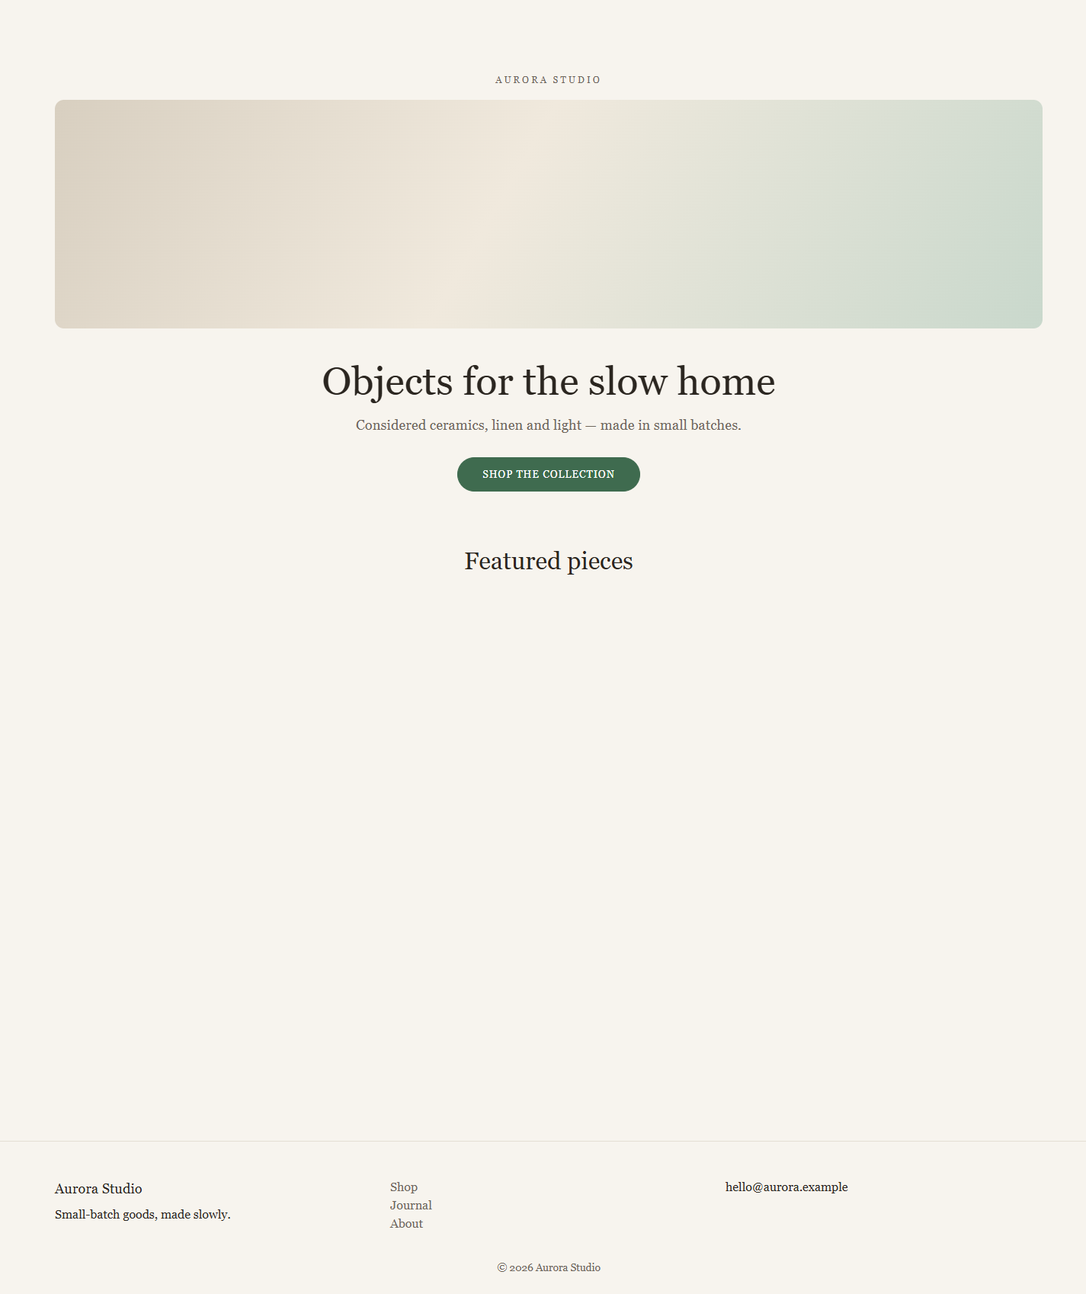
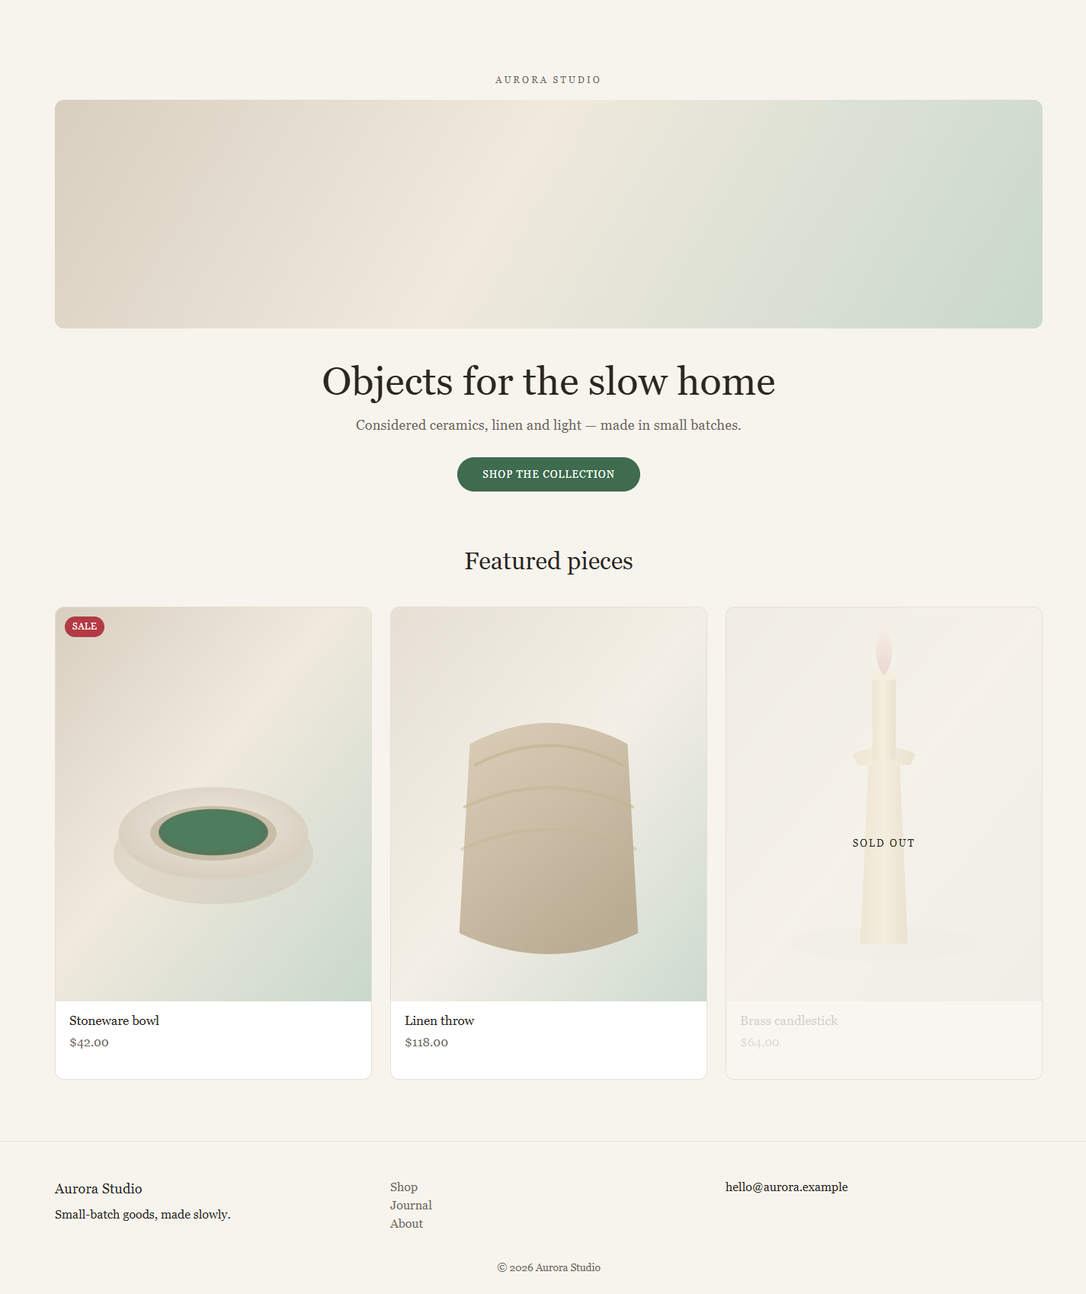
fix: Task 03 correction pass — scope audit, import-map cleanup, section metadata, docs
- NEW designs/build/audit-scope.mjs: selector-scoping audit (every selector must
  reference .ph-client--demo; @media/@supports recursed, @keyframes skipped) +
  dead .ph-client--demo :root strip; wired into build.mjs build AND --check
  (fails on unscoped selectors). Asset rebuilt 9413 -> 9213 bytes (9.0 KB).
- Remove unused client-{slug} entry from theme-import-map.liquid (module imports
  nothing; contract 2.4 now requires import-map only when shared modules used).
- Add data-ph-section="demo" + data-ph-component to the 3 client sections.
- Frozen source: picsum.photos -> local SVGs (designs/demo/source/assets/);
  QA screenshots re-captured.
- Contract 1.2 two-layer rule (design source may use globals; production must
  not), 1.7 audit/strip/limits, 1.8 regression definition (not byte-identical),
  2.4 import-map policy. mapping.md: token substitution intent + future data.
- client-demo.js: AbortSignal lifecycle comments; IO-only proof note.
- Record: docs/superpowers/corrections/2026-08-16-phantom-task03-correction-pass.md
- Verified: theme-check 274 files 0 offenses; build check OK 9.0 KB; scope audit
  0 issues; contract audit clean; JSONs valid.

diff --git a/phantom-theme-v2.2.0/designs/demo/source/index.html b/phantom-theme-v2.2.0/designs/demo/source/index.html
@@ -68,7 +68,7 @@
         <div class="col-12 col-sm-6 col-md-4">
           <article class="ph-client__card ph-client__reveal">
             <span class="ph-client__badge">Sale</span>
-            <div class="ph-client__card-media"><img src="https://picsum.photos/seed/aurora1/600/750" alt="Stoneware bowl"></div>
+            <div class="ph-client__card-media"><img src="assets/aurora-bowl.svg" alt="Stoneware bowl"></div>
             <div class="ph-client__card-body">
               <h3 class="ph-client__card-title"><a href="#">Stoneware bowl</a></h3>
               <p class="ph-client__card-price">$42.00</p>
@@ -77,7 +77,7 @@
         </div>
         <div class="col-12 col-sm-6 col-md-4">
           <article class="ph-client__card ph-client__reveal">
-            <div class="ph-client__card-media"><img src="https://picsum.photos/seed/aurora2/600/750" alt="Linen throw"></div>
+            <div class="ph-client__card-media"><img src="assets/aurora-linen.svg" alt="Linen throw"></div>
             <div class="ph-client__card-body">
               <h3 class="ph-client__card-title"><a href="#">Linen throw</a></h3>
               <p class="ph-client__card-price">$118.00</p>
@@ -87,7 +87,7 @@
         <div class="col-12 col-sm-6 col-md-4">
           <article class="ph-client__card ph-client__reveal">
             <span class="ph-client__card-soldout">Sold out</span>
-            <div class="ph-client__card-media"><img src="https://picsum.photos/seed/aurora3/600/750" alt="Brass candlestick"></div>
+            <div class="ph-client__card-media"><img src="assets/aurora-candlestick.svg" alt="Brass candlestick"></div>
             <div class="ph-client__card-body">
               <h3 class="ph-client__card-title"><a href="#">Brass candlestick</a></h3>
               <p class="ph-client__card-price">$64.00</p>

diff --git a/phantom-theme-v2.2.0/assets/client-demo.js b/phantom-theme-v2.2.0/assets/client-demo.js
@@ -10,6 +10,11 @@
  *
  * Zero visual change: this file is only loaded when ph_active_design = demo.
  * No vendor libraries (demo); the vendor-{slug} slot stays documented.
+ *
+ * Lifecycle scope note: Task 03 proves the init/destroy/refresh contract with
+ * a native IntersectionObserver implementation only. Vendor-library lifecycle
+ * integration (GSAP/Swiper/Lenis/Three) is exercised in Task 04+; the
+ * destroy() API above is shaped so those libraries can be torn down cleanly.
  */
 (function () {
   'use strict'
@@ -137,7 +142,13 @@
       this.root.addEventListener(EVENTS.cartUpdated, this._bound.onCartUpdated, { signal })
     }
 
-    _unbindLifecycle() {}
+    _unbindLifecycle() {
+      // No explicit work: every listener in _bindLifecycle is bound with
+      // { signal: this.abort.signal }. destroy() calls this.abort.abort(),
+      // which removes all of them atomically — so this method stays a
+      // documented no-op. Library-specific teardown (GSAP contexts, Swiper
+      // instances, Lenis) lands here in Task 04+.
+    }
 
     _onSectionLoad(e) {
       const el = e.target && e.target.closest ? e.target.closest(SECTION_SELECTOR) || e.target : e.target

diff --git a/phantom-theme-v2.2.0/designs/demo/production/client-demo.css b/phantom-theme-v2.2.0/designs/demo/production/client-demo.css
@@ -39,14 +39,6 @@
     max-width: 1320px;
   }
 }
-.ph-client--demo :root {
-  --bs-breakpoint-xs: 0;
-  --bs-breakpoint-sm: 576px;
-  --bs-breakpoint-md: 768px;
-  --bs-breakpoint-lg: 992px;
-  --bs-breakpoint-xl: 1200px;
-  --bs-breakpoint-xxl: 1400px;
-}
 .ph-client--demo .row {
   --bs-gutter-x: 1.5rem;
   --bs-gutter-y: 0;

diff --git a/docs/superpowers/corrections/2026-08-16-phantom-task03-correction-pass.md b/docs/superpowers/corrections/2026-08-16-phantom-task03-correction-pass.md
@@ -1,0 +1,61 @@
+# PHANTOM Task 03 — Correction Pass (post-execution audit)
+
+- **Date:** 2026-08-16
+- **Applies to:** executed Task 03 (`docs/superpowers/plans/2026-08-16-phantom-task03-design-activation-plan.md`, commits `a5da4ab..40c3952`, pushed to `shopify-demo`)
+- **Trigger:** external technical review of the Task 03 plan (12 findings). This record audits each finding against the **shipped code** (not the plan text), applies fixes where the finding is real, and re-verifies.
+
+## Task roles (explicit)
+
+- **TASK 03 (this work):** *Prove external-design activation safely.* A controlled proof-of-concept. The `ph_active_design` toggle (`none`|`demo`) is a **temporary activation mechanism** for the proof — it is NOT the final architecture.
+- **TASK 04 (next):** *Convert the proof into a modular AETHER section system.* Sections with their own `{% schema %}`, presets, per-section assets/lifecycle, mixed `AETHER section / PHANTOM section / AETHER section` composition in one JSON template (spec already exists: `docs/superpowers/specs/2026-08-16-aether-section-library-design.md`).
+- **TASK 05+:** *Integrate real premium external client designs into AETHER.*
+
+Task 03 must not be made to do Task 04's job — global-design activation stays a proof mechanism.
+
+## Finding-by-finding disposition
+
+| # | Finding | Severity | Real in shipped code? | Disposition |
+|---|---|---|---|---|
+| 1 | Global activation vs modular AETHER | arch | As-designed (proof only) | Documented above + in plan header note. No code change — Task 03 stays a proof. |
+| 2 | Frozen source uses `:root`/`body` vs "no globals" contract | HIGH | Contradiction existed in contract text | Contract §1.2 rewritten: two layers (design source may use globals; production must not). |
+| 3 | `.ph-client__container` vs `.container` mismatch | HIGH | **No** — shipped sections already use `.container`; compiled scoped `.container` verified (6 rules, all breakpoints) | Verified; recorded. No change needed. |
+| 4 | Bootstrap Sass nesting strategy risky | HIGH | Strategy proven for demo subset (output fully scoped) | Audit added (`audit-scope.mjs`) + dead-rule strip + strategy limits documented in contract §1.7. |
+| 5 | "Scoped/purged" not actually proven | HIGH | **Yes** — QA was 4 regexes; shipped CSS contained dead `.ph-client--demo :root` + Bootstrap `:not(.btn-check) + …` chained selector | `designs/build/audit-scope.mjs` added; wired into `build.mjs` (both build and `--check` fail on any unscoped selector); dead `:root` stripped; asset rebuilt 9413 → 9213 bytes. |
+| 6 | Token bridge vs "frozen source" tension | MEDIUM | Intent undocumented | `designs/demo/mapping.md` gains "Token substitution (intentional design-system integration)" section — QA compares structure/layout, not exact hex. |
+| 7 | Import-map duplication | MEDIUM | **Yes** — `theme-import-map.liquid` shipped a `client-demo` entry; module imports nothing | Entry removed. Contract §2.4 now states: import-map registration only when the module actually imports shared modules. |
+| 8 | Lifecycle only partially real | LOW | `_unbindLifecycle() {}` confusing | Commented (AbortSignal semantics) + header note: IO-only proof; vendor-library lifecycle lands in Task 04+. |
+| 9 | Missing `data-ph-section`/`data-ph-component` | LOW | **Yes** | Added to all 3 client sections (`demo`/`hero|collection|footer`) for future AETHER JS registry, analytics, editor lifecycle. |
+| 10 | External picsum.photos dependency | LOW | **Yes** (frozen source only) | Replaced with local SVG placeholders (`designs/demo/source/assets/aurora-{bowl,linen,candlestick}.svg`); source screenshots re-captured. |
+| 11 | Dynamic fields incomplete | LOW | Adapter already permits future fields | Documented in mapping.md (variant/quick-add explicit out-of-scope for Task 03). |
+| 12 | "Byte-identical" too strong | MEDIUM | Wording only | Contract §1.8 defines regression as no visual/functional/asset/perf change; byte differences acceptable. |
+
+## Files changed
+
+| File | Change |
+|---|---|
+| `designs/build/audit-scope.mjs` | NEW — selector-scoping audit + dead `:root` strip |
+| `designs/build/build.mjs` | Wire audit + strip into build/check; fail on unscoped selectors |
+| `designs/demo/production/client-demo.css` | Rebuilt (9.0 KB, dead `:root` removed) |
+| `assets/client-demo.css.liquid` | Rebuilt asset copied |
+| `snippets/theme-import-map.liquid` | Removed conditional `client-*` entry |
+| `sections/client-demo-{hero,collection,footer}.liquid` | Added `data-ph-section="demo"` + `data-ph-component` |
+| `assets/client-demo.js` | Lifecycle comments (AbortSignal, vendor-lib scope note) |
+| `designs/demo/source/index.html` + `assets/aurora-*.svg` | Local placeholders replace picsum.photos |
+| `designs/contracts/css-namespace-contract.md` | §1.2 two-layer rule, §1.7 audit/strip/limits, §1.8 regression definition, §2.4 import-map policy |
+| `designs/demo/mapping.md` | Token-substitution intent + future data surface |
+| `docs/integration/demo/fidelity-report.md` | QA table updated (scope audit, new size) |
+| `docs/integration/demo/screenshots/*` | Re-captured against local placeholder source |
+| This record | Problem-by-problem disposition |
+
+## QA re-run (all green)
+
+1. `node build.mjs --slug demo` → build OK, scope audit 0 issues, dead `:root` stripped (9213 bytes)
+2. `node build.mjs --slug demo --check` → `OK demo: 9.0 KB`
+3. `shopify theme check --path phantom-theme-v2.2.0` → 0 offenses
+4. CSS contract audit (no `:root` / `^body` / `!important` / z-index ≥ 5 digits) → clean
+5. JSON validates (settings_schema, settings_data, locales, page.demo)
+6. Default-path regression: only conditional/additive diffs in layout + import map; `index.json` untouched
+
+## Bottom line
+
+The plan's foundation was sound; the shipped code had already absorbed the container fix (P3). The real gaps were **automated scope proof (P5)**, **contract clarity (P2/P12)**, **import-map duplication (P7)**, and **section metadata (P9)** — all closed here without changing the architecture or the default render path.

diff --git a/phantom-theme-v2.2.0/designs/contracts/css-namespace-contract.md b/phantom-theme-v2.2.0/designs/contracts/css-namespace-contract.md
@@ -21,16 +21,16 @@ Every client design renders inside exactly one scope root:
 
 ### 1.2 Authoring rules (hard rules, linted)
 
-| Rule | Applies to |
-|---|---|
-| All client CSS selectors prefixed with `.ph-client` (or nested under it in source) | CSS |
-| Never write `:root`, `body`, `html`, or bare element selectors | CSS |
-| Never set `!important` outside component-specific state overrides | CSS |
-| Never exceed z-index 10000 (PHANTOM ceiling is 10001) | CSS |
-| Raw Bootstrap classes never appear unscoped in the theme | CSS/build |
-| Never re-bundle AOS, Flickity, PhotoSwipe (already in `phantom-vendor.js`) | build |
-| All JS hooks use `data-ph-*` attributes inside the scope | JS |
-| Client JS never attaches global listeners without cleanup | JS |
+**Two layers, two rule sets.** The frozen design source and the production client CSS are different artifacts with different rules:
+
+| Layer | File | May use | Must not use |
+|---|---|---|---|
+| **Design source** (design-time) | `designs/{slug}/source/*.html` | `:root`, `body`, bare element selectors, any CSS the designer wants | nothing — it is a static mockup, never shipped |
+| **Production client CSS** (shipped) | `assets/client-{slug}.css.liquid` | `.ph-client--{slug}` selectors, `html.js .ph-client--{slug}` reveal guards, scoped `@media` | `:root`, `body`, `html`, bare element selectors, unscoped Bootstrap classes, `!important` outside component state, z-index > 10000 |
+
+The build pipeline (contract §1.7) is the transformation between the two: it must **remove or scope every
+design-time global** so the shipped artifact contains no global selectors. `designs/build/audit-scope.mjs`
+enforces this automatically on every build (`node build.mjs --slug {slug}` fails on unscoped selectors).
 
 ### 1.3 Token bridge
 
@@ -71,10 +71,27 @@ Because the scope owns its responsive behavior, the two scales never interact. R
 
 Bootstrap is a design-time tool only. Production ships `client-{slug}.css` built by `designs/build/build.mjs`:
 
-1. Sass-compile **only the Bootstrap modules used** by the design (module list in `designs/build/scss/client.scss`).
-2. **Namespace every selector** under `.ph-client` (compile with the scope wrapper).
-3. **Purge** unused CSS against `source/**/*.html` (PurgeCSS).
-4. Minify + output to `production/client-{slug}.css`, which becomes `assets/client-{slug}.css.liquid`.
+1. Sass-compile **only the Bootstrap modules used** by the design (module list in `designs/build/scss/client.scss`), nested inside the scope wrapper.
+2. **Scope-audit every emitted selector** (`designs/build/audit-scope.mjs`): each selector must reference `.ph-client--{slug}`; `@media`/`@supports` bodies are recursed, `@keyframes` bodies skipped. Build fails on any unscoped selector.
+3. **Strip dead rules** the wrapper cannot express (Bootstrap's `:root { --bs-* }` nested under the scope can never match and is removed).
+4. **Purge** unused CSS against `source/**/*.html` (PurgeCSS).
+5. Output to `production/client-{slug}.css`, which becomes `assets/client-{slug}.css.liquid`.
+
+The nested-`@import` strategy is **proven for the Task 03 demo subset only** (containers/grid/buttons/utilities).
+A design that needs more of Bootstrap (modals, offcanvas, carousels, forms) must either (a) verify the
+audit still passes and extend `audit-scope.mjs` if the emitted selectors escape the wrapper, or (b) switch
+to the compile-then-scope postprocessor pattern (compile Bootstrap unscoped, then prefix every selector —
+documented evolution for Task 04+; not required for v1).
+
+### 1.8 Default-path regression definition
+
+"Default theme renders exactly as today" is defined as **no regression** — not byte-identical HTML:
+
+- No visual change, no functional change, no asset-loading change, no CSS/JS change, no performance change
+  when the design toggle is `none` or the design files are absent.
+- `layout/theme.liquid` / `snippets/theme-import-map.liquid` diffs must be additive-only or conditional-only.
+- `templates/index.json` and all global CSS/JS assets must be untouched by client-design work.
+- Byte-level HTML differences (whitespace, settings defaults) are acceptable and expected.
 
 ---
 
@@ -118,7 +135,11 @@ class ClientDesign {
 ### 2.4 Module placement
 
 - Template shell: `designs/_template/js/client-design.js`.
-- On activation: copy to `assets/client-{slug}.js` and register in `snippets/theme-import-map.liquid` (matches the existing `ui-*` ES-module precedent).
+- On activation: copy to `assets/client-{slug}.js` and load directly from `layout/theme.liquid`:
+  `<script type="module" src="{{ 'client-' | append: slug | append: '.js' | asset_url }}">`.
+- **Import-map registration is NOT required** for a standalone module that imports nothing (Task 03 demo).
+  Add a `client-{slug}` entry to `snippets/theme-import-map.liquid` only when the module (or a Task 04+
+  AETHER section module) actually imports a shared `ui-*`/`theme-*` module through the map.
 - One global registry entry: `window.ClientDesign`.
 
 ---

diff --git a/.serena/memories/phantom-theme/project-state.md b/.serena/memories/phantom-theme/project-state.md
@@ -3,7 +3,18 @@
 Theme: PHANTOM v2.3.0 (OS 2.0), rebranded from Impulse v8.2.0 by Archetype Themes.
 Path: `C:\Users\hamma\Downloads\phantom\phantom-theme\phantom-theme-v2.2.0\`
 
-## Current status: Task 03 (design activation walkthrough) COMPLETE (2026-08-16, pushed)
+## Current status: Task 03 COMPLETE + correction pass (2026-08-16, committed)
+
+### Task 03 correction pass (2026-08-16 — post-execution external review, committed)
+Record: `docs/superpowers/corrections/2026-08-16-phantom-task03-correction-pass.md` (finding-by-finding disposition).
+- NEW `designs/build/audit-scope.mjs`: selector-scoping audit (every selector must reference `.ph-client--demo`; `@media`/`@supports` recursed, `@keyframes` skipped) + dead `.ph-client--demo :root` strip; wired into `build.mjs` (build AND `--check` fail on unscoped selectors). Asset rebuilt 9413 → 9213 bytes (9.0 KB).
+- Removed unused `client-{slug}` entry from `snippets/theme-import-map.liquid` (module imports nothing; contract §2.4 now requires import-map entry only when shared modules are imported).
+- Added `data-ph-section="demo"` + `data-ph-component="hero|collection|footer"` to the 3 client sections (future AETHER registry/analytics hooks).
+- Frozen source: picsum.photos → local SVGs `designs/demo/source/assets/aurora-{bowl,linen,candlestick}.svg`; screenshots re-captured.
+- Contract §1.2 rewritten (two layers: design source may use globals; production must not), §1.7 (audit/strip/limits — nesting strategy proven for demo subset only), §1.8 (regression = no visual/functional/asset/perf change, NOT byte-identical), §2.4 (import-map policy).
+- mapping.md: token substitution is intentional (PHANTOM tokens drive demo colors; QA compares structure not hex); future variant/quick-add data documented as out-of-scope for Task 03.
+- client-demo.js: lifecycle comments (AbortSignal semantics; IO-only proof, vendor libs land Task 04+).
+- Re-verified: theme-check 274 files 0 offenses; build check OK 9.0 KB; scope audit 0 issues; CSS contract audit clean; JSONs valid.
 
 ### Task 01 — Blueprint (completed 2026-08-16)
 Deliverable: `docs/superpowers/specs/2026-08-16-phantom-external-integration-blueprint.md` (committed in a5da4ab).
@@ -32,9 +43,14 @@ Commits (all on main, pushed `a28a676..40c3952` → origin/main shopify-demo):
 Task 5 QA catches during final sweep: settings_data.json BOM (removed), pt-BR/pt-PT missing `ph_designs` schema keys (added), en preset name too long "Demo — featured collection" → "Demo collection". Final theme-check: 274 files, 0 offenses. Build check: OK 9.2 KB (< 60 KB). CSS contract audit clean; `html.js .ph-client--demo .ph-client__reveal(.is-visible)` confirmed present in shipped `assets/client-demo.css.liquid`.
 
 ## Next session (per blueprint §9 roadmap)
-1. Task 04 — generic design loader hardening (designs/contracts hardening, `vendor-{slug}` slot, multi-design registry patterns) per spec `2026-08-16-phantom-external-integration-blueprint.md`.
-2. Task 05 — first real client design (designs/{real-slug}/ end-to-end).
-3. Live-store manual QA for the demo page remains open: assign `page.demo` template, set `ph_active_design = demo`, compare against `docs/integration/demo/screenshots/` (no Shopify auth in this environment).
+1. **Task 04 — AETHER modular section system** (spec EXISTS, plan NOT yet written): `docs/superpowers/specs/2026-08-16-aether-section-library-design.md` (draft, pending user verification). 6 sections (hero/featured-products/promo/testimonials/newsletter/footer-extra), own `--aether-*` tokens + `harmonize` bridge, `page.aether.json` mixed AETHER+PHANTOM composition, hand-curated `aether.css.liquid` (< 40 KB), `aether.js.liquid` (no-op without AETHER sections). AETHER does NOT depend on the Task 03 toggle layer.
+2. Task 04b (per blueprint) — generic design loader hardening (`vendor-{slug}` slot, multi-design registry).
+3. Task 05 — first real client design (designs/{real-slug}/ end-to-end).
+4. Live-store manual QA for the demo page remains open: assign `page.demo` template, set `ph_active_design = demo`, compare against `docs/integration/demo/screenshots/` (no Shopify auth in this environment).
+
+## Unpushed state (2026-08-16)
+- HEAD (0547d8f) = AETHER spec draft — NOT pushed (spec marked "Draft (pending user verification)").
+- Task 03 correction pass commit — local, NOT pushed (would also carry the AETHER draft commit; push only after spec verified).
 
 ## Repo policy (2026-08-16)
 - Remote: https://github.com/HAmmadsiamil007/shopify-demo.git (branch main) — the real client demo store, keep presentable.

diff --git a/docs/integration/demo/fidelity-report.md b/docs/integration/demo/fidelity-report.md
@@ -26,11 +26,17 @@
 | Check | Result |
 |---|---|
 | theme-check (274 files) | 0 offenses |
-| build check (`node build.mjs --slug demo --check`) | OK — 9.2 KB (< 60 KB) |
+| build check (`node build.mjs --slug demo --check`) | OK — 9.0 KB (< 60 KB) |
+| Selector-scoping audit (`audit-scope.mjs`, wired into `build.mjs`) | 0 unscoped selectors — every rule references `.ph-client--demo` |
+| Dead-rule strip (Bootstrap nested `:root`) | applied — asset 9413 → 9213 bytes |
 | CSS contract audit (`:root` / `^body` / `!important` / z-index ≥ 5 digits) | all clean |
 | Scroll-reveal rules in shipped CSS | `html.js .ph-client--demo .ph-client__reveal(.is-visible)` present |
 | Dynamic-data fields in collection section | title, url, featured_image, price, compare_at_price, available — all present |
-| Default-path regression (git diff) | `templates/index.json`, `theme.css.liquid`, `theme.js` untouched; only conditional wiring in layout/import-map/config/locales |
+| Default-path regression (git diff) | `templates/index.json`, `theme.css.liquid`, `theme.js` untouched; only conditional wiring in layout/config/locales |
 | Locale key completeness (en/de/es/fr/it/pt-BR/pt-PT) | all schema keys present |
+| External dependencies in source | removed — local SVG placeholders (`designs/demo/source/assets/`) |
 
 Live-store render QA is the remaining manual gate (documented above).
+
+---
+*Updated by the Task 03 correction pass (2026-08-16) — record: `docs/superpowers/corrections/2026-08-16-phantom-task03-correction-pass.md`.*

diff --git a/phantom-theme-v2.2.0/designs/demo/mapping.md b/phantom-theme-v2.2.0/designs/demo/mapping.md
@@ -26,3 +26,22 @@
 - Client breakpoints (576/768/992/1200/1400) apply inside `.ph-client--demo` only (contract §1.5).
 - Reused PHANTOM commerce snippets: `product.price`, `ui-badge` (contract: client owns grid markup, PHANTOM owns commerce data).
 - Every element above resolves to an existing section/snippet or is declared NEW (the 3 `client-demo-*` sections — added to the theme in Task 4).
+
+## Token substitution (intentional design-system integration)
+
+The frozen source declares a hard-coded Aurora palette (`--aurora-*`: `#f7f4ee`, `#2b2620`, `#3f6b4f`, …).
+The production build deliberately does NOT reproduce those hex values: it bridges semantically equal
+tokens to PHANTOM's `--ph-color*` family (`--demo-accent: var(--ph-colorBtnPrimary)`, …). This is an
+intentional integration decision (contract §1.3): the merchant's PHANTOM theme settings drive the demo
+design's colors. Visual QA must therefore compare *structure, spacing, typography, and layout* between
+source and Shopify render — exact color values are expected to differ and are controlled by theme settings.
+
+## Future data surface (adapter must not block; NOT built in Task 03)
+
+The adapter architecture already permits — without Task 03 changes — later use of:
+
+- `product.selected_or_first_available_variant` (quick-add / variant selection)
+- `product.vendor`, `product.handle`
+- variant-level data (`variant.id`, inventory, metafields)
+
+Quick-add and variant selection are explicitly out of scope for Task 03 and belong to AETHER v2+.

diff --git a/docs/superpowers/plans/2026-08-16-phantom-task03-design-activation-plan.md b/docs/superpowers/plans/2026-08-16-phantom-task03-design-activation-plan.md
@@ -1,5 +1,10 @@
 # PHANTOM Task 03 — Design Activation Walkthrough Implementation Plan
 
+> **EXECUTED 2026-08-16 (commits `a5da4ab..40c3952`, pushed to `shopify-demo`).**
+> **Post-execution correction pass:** `docs/superpowers/corrections/2026-08-16-phantom-task03-correction-pass.md`
+> (scope audit in `build.mjs`, import-map cleanup, section metadata, source placeholders, contract updates).
+> Task 03 proves activation with a temporary toggle; Task 04 converts it into the modular AETHER section system.
+
 > **For agentic workers:** REQUIRED SUB-SKILL: Use superpowers:subagent-driven-development (recommended) or superpowers:executing-plans to implement this plan task-by-task. Steps use checkbox (`- [ ]`) syntax for tracking.
 
 **Goal:** Prove the Task 01 blueprint's external-design activation pipeline end-to-end with a fictional `demo` design ("Aurora Studio"), with zero visual change on the default theme.
